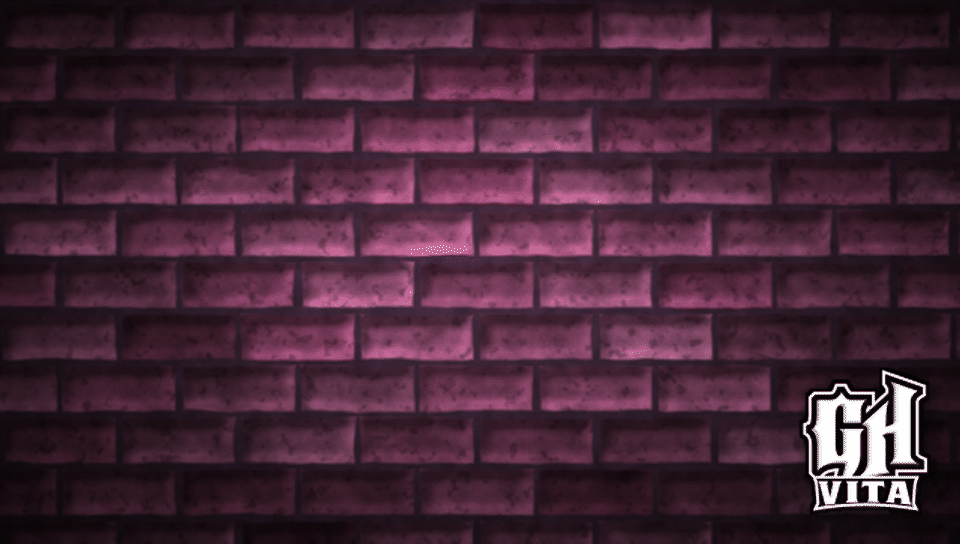
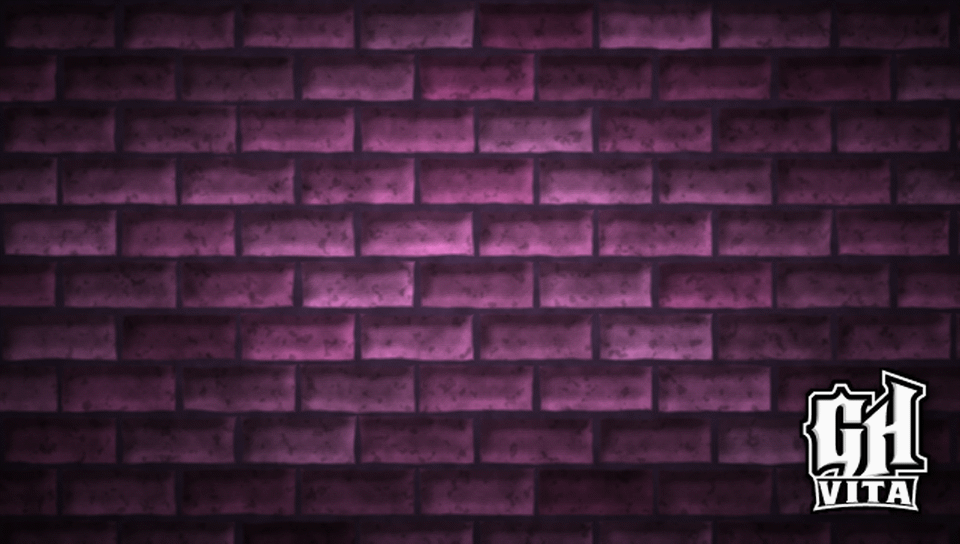
fix(vita): white dots on pic0, bluer brick wash
MEDIANCUT kept white palette entries for the logo, and the dither scattered
them over the bright middle of the wall; MAXCOVERAGE leaves no stray pixels.

Changed region(s): [[0.8438, 0.6875, 0.9688, 0.9375], [0.4062, 0.4375, 0.5, 0.4688]]

diff --git a/tools/make-livearea-art.py b/tools/make-livearea-art.py
@@ -88,7 +88,7 @@ def render(w, h, dim):
     # Light purple wash over the warm bricks: mix in a purple-tinted copy of the
     # image's brightness.
     lum = img @ np.array([0.30, 0.55, 0.15], np.float32)
-    purple = lum[..., None] * np.array([0.9, 0.6, 1.55], np.float32)
+    purple = lum[..., None] * np.array([0.8, 0.6, 1.75], np.float32)
     img = img * (1 - PURPLE) + purple * PURPLE
     vig = np.clip(1 - 0.35 * (nx ** 2 + ny ** 2), 0.2, 1)
     img = img * vig[..., None] * dim
@@ -100,7 +100,9 @@ def render(w, h, dim):
 def save_indexed(img, path):
     # The Vita's LiveArea wants 8-bit palette PNGs. Build the palette first, then map
     # with dithering; quantize() alone does not dither and leaves bands.
-    pal = img.quantize(colors=256, method=Image.Quantize.MEDIANCUT)
+    # MAXCOVERAGE: MEDIANCUT left white logo entries that the dither scattered as
+    # white dots over the bright middle of pic0.
+    pal = img.quantize(colors=256, method=Image.Quantize.MAXCOVERAGE)
     img.quantize(palette=pal, dither=Image.Dither.FLOYDSTEINBERG).save(path, optimize=True)
     print("wrote", path)
 
